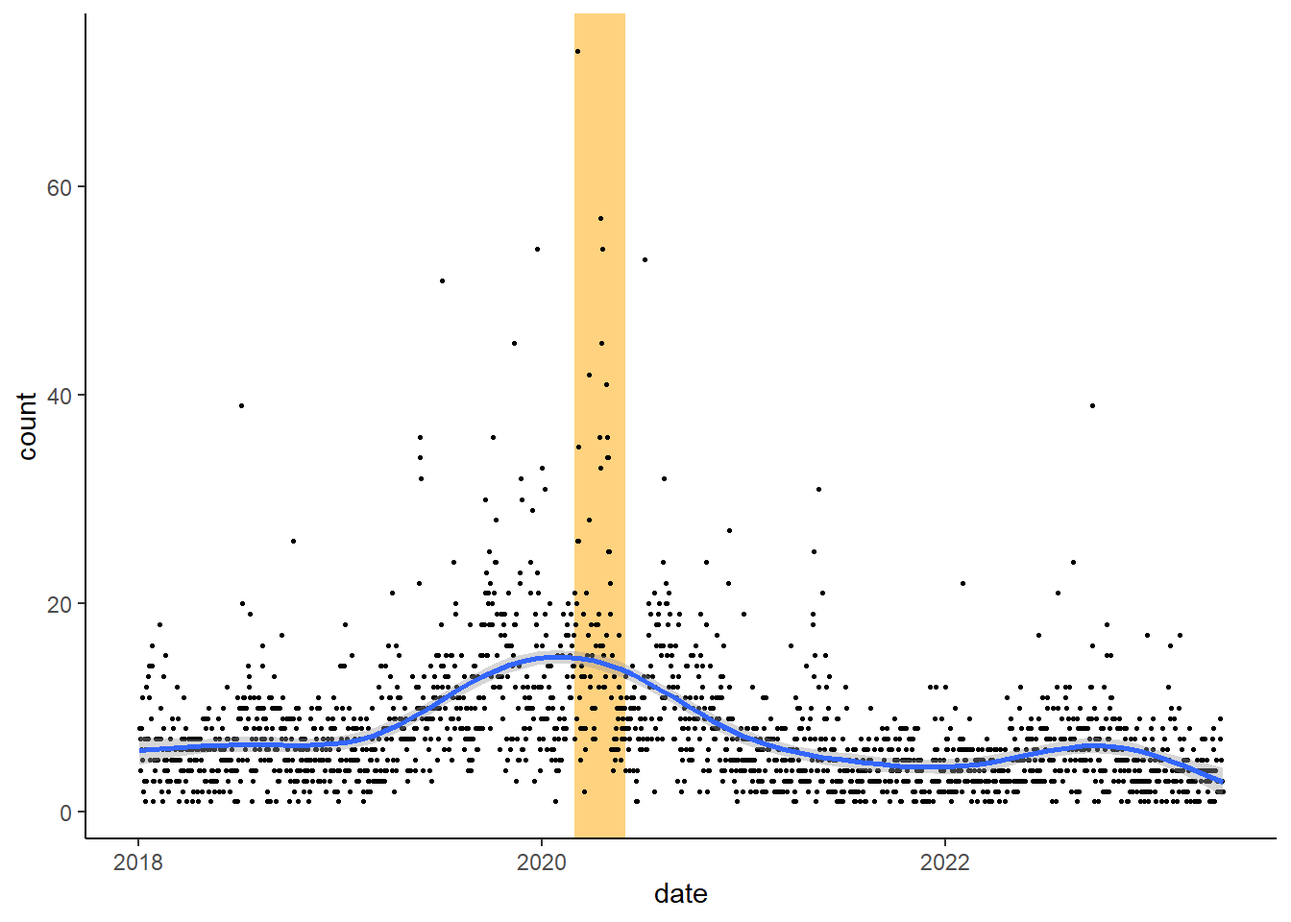
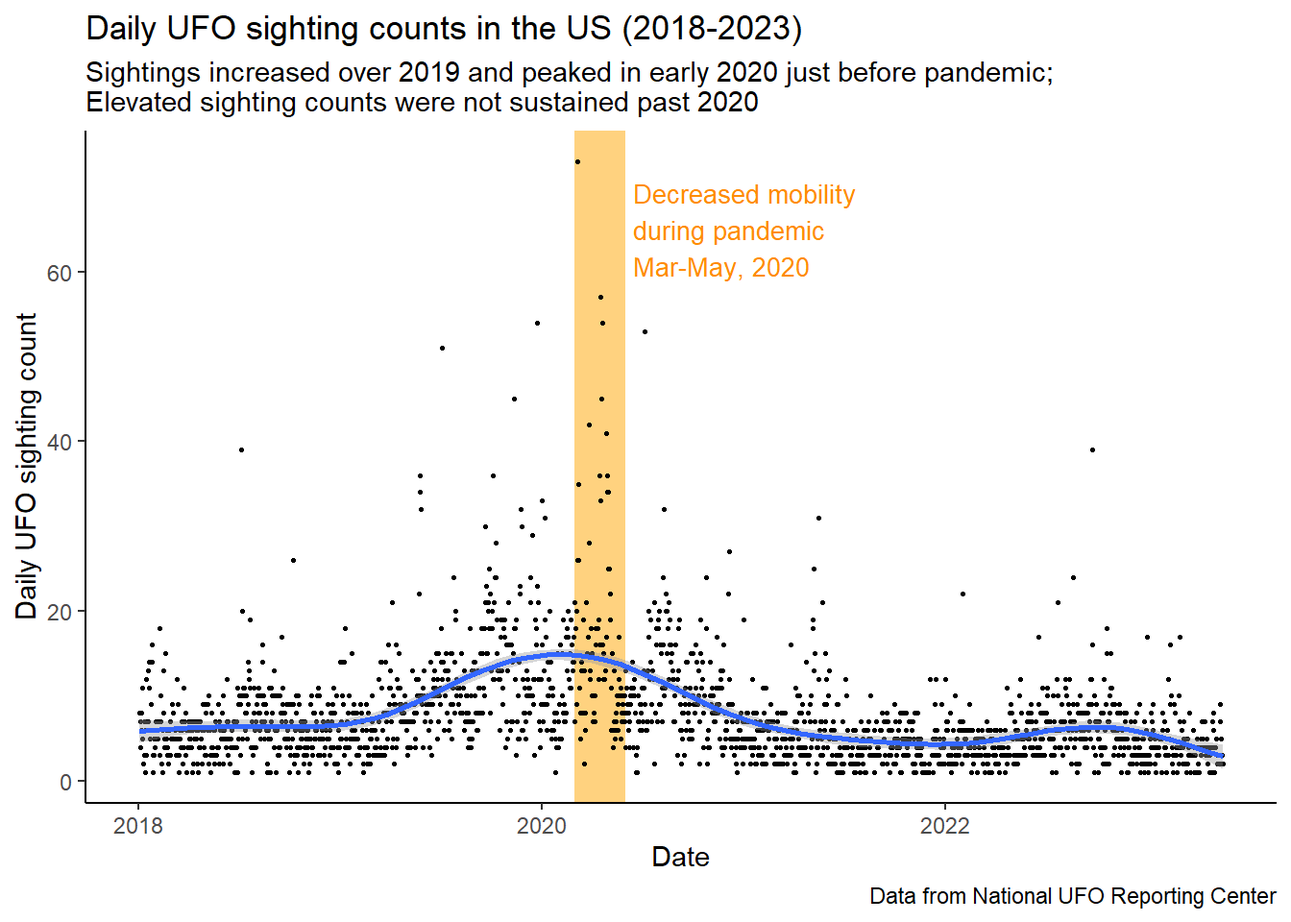
fix date interval for maps, add pandemic annotation to plots

diff --git a/_site/example_analysis.html b/_site/example_analysis.html
@@ -169,6 +169,7 @@ div.csl-indent {
   <li><a href="#data-import-and-cleaning" id="toc-data-import-and-cleaning" class="nav-link" data-scroll-target="#data-import-and-cleaning">Data import and cleaning</a></li>
   <li><a href="#changes-in-sightings-during-pandemic" id="toc-changes-in-sightings-during-pandemic" class="nav-link" data-scroll-target="#changes-in-sightings-during-pandemic">Changes in sightings during pandemic</a></li>
   <li><a href="#geographic-distribution-of-change-in-sightings" id="toc-geographic-distribution-of-change-in-sightings" class="nav-link" data-scroll-target="#geographic-distribution-of-change-in-sightings">Geographic distribution of change in sightings</a></li>
+  <li><a href="#summary" id="toc-summary" class="nav-link" data-scroll-target="#summary">Summary</a></li>
   <li><a href="#functions-used" id="toc-functions-used" class="nav-link" data-scroll-target="#functions-used">Functions used</a></li>
   <li><a href="#references" id="toc-references" class="nav-link" data-scroll-target="#references">References</a></li>
   </ul>
@@ -232,11 +233,11 @@ Note
 <i class="callout-icon"></i>
 </div>
 <div class="callout-title-container flex-fill">
-An important message for the Pentagon
+An important message
 </div>
 </div>
 <div class="callout-body-container callout-body">
-<p>If you (the Pentagon) are reading this <a href="https://thehill.com/policy/defense/4300252-pentagon-ufo-chief-to-step-down-next-month/" class="external" target="_blank">and you are hiring</a>: I am open for work.</p>
+<p>If the Pentagon are reading this and <a href="https://thehill.com/policy/defense/4300252-pentagon-ufo-chief-to-step-down-next-month/" class="external" target="_blank">you are hiring</a>: I am open for work.</p>
 </div>
 </div>
 </section>
@@ -427,9 +428,23 @@ $ elevation_m          &lt;dbl&gt; 160, 192, 199, 235, 17, 382, 89, 11, NA, 1156
 <span id="cb10-11"><a href="#cb10-11" aria-hidden="true" tabindex="-1"></a>             <span class="at">ymax =</span> <span class="cn">Inf</span>,</span>
 <span id="cb10-12"><a href="#cb10-12" aria-hidden="true" tabindex="-1"></a>             <span class="at">fill =</span> <span class="st">"orange"</span>,</span>
 <span id="cb10-13"><a href="#cb10-13" aria-hidden="true" tabindex="-1"></a>             <span class="at">alpha =</span> <span class="fl">0.5</span>) <span class="sc">+</span></span>
-<span id="cb10-14"><a href="#cb10-14" aria-hidden="true" tabindex="-1"></a>    <span class="fu">geom_point</span>(<span class="at">size =</span> <span class="fl">0.5</span>) <span class="sc">+</span></span>
-<span id="cb10-15"><a href="#cb10-15" aria-hidden="true" tabindex="-1"></a>    <span class="fu">geom_smooth</span>() <span class="sc">+</span></span>
-<span id="cb10-16"><a href="#cb10-16" aria-hidden="true" tabindex="-1"></a>    <span class="fu">theme_classic</span>()</span></code><button title="Copy to Clipboard" class="code-copy-button"><i class="bi"></i></button></pre></div>
+<span id="cb10-14"><a href="#cb10-14" aria-hidden="true" tabindex="-1"></a>    <span class="fu">annotate</span>(<span class="st">"text"</span>,</span>
+<span id="cb10-15"><a href="#cb10-15" aria-hidden="true" tabindex="-1"></a>             <span class="at">x =</span> <span class="fu">ymd</span>(<span class="st">"2020-06-15"</span>), </span>
+<span id="cb10-16"><a href="#cb10-16" aria-hidden="true" tabindex="-1"></a>             <span class="at">y =</span> <span class="dv">65</span>,</span>
+<span id="cb10-17"><a href="#cb10-17" aria-hidden="true" tabindex="-1"></a>             <span class="at">hjust =</span> <span class="dv">0</span>,</span>
+<span id="cb10-18"><a href="#cb10-18" aria-hidden="true" tabindex="-1"></a>             <span class="at">label =</span> <span class="st">"Decreased mobility </span><span class="sc">\n</span><span class="st">during pandemic </span><span class="sc">\n</span><span class="st">Mar-May, 2020"</span>,</span>
+<span id="cb10-19"><a href="#cb10-19" aria-hidden="true" tabindex="-1"></a>             <span class="at">color =</span> <span class="st">"darkorange"</span>,</span>
+<span id="cb10-20"><a href="#cb10-20" aria-hidden="true" tabindex="-1"></a>             <span class="at">size =</span> <span class="dv">10</span><span class="sc">/</span>.pt) <span class="sc">+</span></span>
+<span id="cb10-21"><a href="#cb10-21" aria-hidden="true" tabindex="-1"></a>    <span class="fu">geom_point</span>(<span class="at">size =</span> <span class="fl">0.5</span>) <span class="sc">+</span></span>
+<span id="cb10-22"><a href="#cb10-22" aria-hidden="true" tabindex="-1"></a>    <span class="fu">geom_smooth</span>() <span class="sc">+</span></span>
+<span id="cb10-23"><a href="#cb10-23" aria-hidden="true" tabindex="-1"></a>    <span class="fu">theme_classic</span>() <span class="sc">+</span></span>
+<span id="cb10-24"><a href="#cb10-24" aria-hidden="true" tabindex="-1"></a>    <span class="fu">labs</span>(</span>
+<span id="cb10-25"><a href="#cb10-25" aria-hidden="true" tabindex="-1"></a>      <span class="at">title =</span> <span class="st">"Daily UFO sighting counts in the US (2018-2023)"</span>,</span>
+<span id="cb10-26"><a href="#cb10-26" aria-hidden="true" tabindex="-1"></a>      <span class="at">subtitle =</span> <span class="st">"Sightings increased over 2019 and peaked in early 2020 just before pandemic;</span><span class="sc">\n</span><span class="st">Elevated sighting counts were not sustained past 2020"</span>,</span>
+<span id="cb10-27"><a href="#cb10-27" aria-hidden="true" tabindex="-1"></a>      <span class="at">x =</span> <span class="st">"Date"</span>,</span>
+<span id="cb10-28"><a href="#cb10-28" aria-hidden="true" tabindex="-1"></a>      <span class="at">y =</span> <span class="st">"Daily UFO sighting count"</span>,</span>
+<span id="cb10-29"><a href="#cb10-29" aria-hidden="true" tabindex="-1"></a>      <span class="at">caption =</span> <span class="st">"Data from National UFO Reporting Center"</span></span>
+<span id="cb10-30"><a href="#cb10-30" aria-hidden="true" tabindex="-1"></a>    )</span></code><button title="Copy to Clipboard" class="code-copy-button"><i class="bi"></i></button></pre></div>
 </details>
 <div class="cell-output cell-output-stderr">
 <pre><code>`geom_smooth()` using method = 'gam' and formula = 'y ~ s(x, bs = "cs")'</code></pre>
@@ -452,16 +467,26 @@ $ elevation_m          &lt;dbl&gt; 160, 192, 199, 235, 17, 382, 89, 11, NA, 1156
 <span id="cb12-7"><a href="#cb12-7" aria-hidden="true" tabindex="-1"></a>  <span class="fu">summarize</span>(</span>
 <span id="cb12-8"><a href="#cb12-8" aria-hidden="true" tabindex="-1"></a>    <span class="at">count =</span> <span class="fu">n</span>()</span>
 <span id="cb12-9"><a href="#cb12-9" aria-hidden="true" tabindex="-1"></a>  ) <span class="sc">%&gt;%</span> </span>
-<span id="cb12-10"><a href="#cb12-10" aria-hidden="true" tabindex="-1"></a>  <span class="fu">ggplot</span>(<span class="at">mapping =</span> <span class="fu">aes</span>(<span class="at">x =</span> month, <span class="at">y =</span> count)) <span class="sc">+</span></span>
-<span id="cb12-11"><a href="#cb12-11" aria-hidden="true" tabindex="-1"></a>    <span class="fu">annotate</span>(<span class="st">"rect"</span>, </span>
-<span id="cb12-12"><a href="#cb12-12" aria-hidden="true" tabindex="-1"></a>             <span class="at">xmin =</span> <span class="fu">ymd</span>(<span class="st">"2020-03-01"</span>), </span>
-<span id="cb12-13"><a href="#cb12-13" aria-hidden="true" tabindex="-1"></a>             <span class="at">xmax =</span> <span class="fu">ymd</span>(<span class="st">"2020-06-01"</span>), </span>
-<span id="cb12-14"><a href="#cb12-14" aria-hidden="true" tabindex="-1"></a>             <span class="at">ymin =</span> <span class="sc">-</span><span class="cn">Inf</span>, </span>
-<span id="cb12-15"><a href="#cb12-15" aria-hidden="true" tabindex="-1"></a>             <span class="at">ymax =</span> <span class="cn">Inf</span>,</span>
-<span id="cb12-16"><a href="#cb12-16" aria-hidden="true" tabindex="-1"></a>             <span class="at">fill =</span> <span class="st">"orange"</span>,</span>
-<span id="cb12-17"><a href="#cb12-17" aria-hidden="true" tabindex="-1"></a>             <span class="at">alpha =</span> <span class="fl">0.5</span>) <span class="sc">+</span></span>
-<span id="cb12-18"><a href="#cb12-18" aria-hidden="true" tabindex="-1"></a>    <span class="fu">geom_bar</span>(<span class="at">stat =</span> <span class="st">"identity"</span>) <span class="sc">+</span></span>
-<span id="cb12-19"><a href="#cb12-19" aria-hidden="true" tabindex="-1"></a>    <span class="fu">theme_classic</span>()</span></code><button title="Copy to Clipboard" class="code-copy-button"><i class="bi"></i></button></pre></div>
+<span id="cb12-10"><a href="#cb12-10" aria-hidden="true" tabindex="-1"></a>  <span class="fu">mutate</span>(<span class="at">period =</span> <span class="fu">factor</span>(<span class="fu">ifelse</span>(month <span class="sc">%within%</span> <span class="fu">interval</span>(<span class="fu">ymd</span>(<span class="st">"2020-03-01"</span>), <span class="fu">ymd</span>(<span class="st">"2020-06-01"</span>)), <span class="st">"highlight"</span>, <span class="st">"normal"</span>))) <span class="sc">%&gt;%</span> </span>
+<span id="cb12-11"><a href="#cb12-11" aria-hidden="true" tabindex="-1"></a>  <span class="fu">ggplot</span>(<span class="at">mapping =</span> <span class="fu">aes</span>(<span class="at">x =</span> month, <span class="at">y =</span> count, <span class="at">fill =</span> period)) <span class="sc">+</span></span>
+<span id="cb12-12"><a href="#cb12-12" aria-hidden="true" tabindex="-1"></a>    <span class="fu">geom_bar</span>(<span class="at">stat =</span> <span class="st">"identity"</span>) <span class="sc">+</span></span>
+<span id="cb12-13"><a href="#cb12-13" aria-hidden="true" tabindex="-1"></a>    <span class="fu">scale_fill_manual</span>(<span class="at">values =</span> <span class="fu">c</span>(<span class="st">"orange"</span>, <span class="st">"grey50"</span>)) <span class="sc">+</span></span>
+<span id="cb12-14"><a href="#cb12-14" aria-hidden="true" tabindex="-1"></a>    <span class="fu">annotate</span>(<span class="st">"text"</span>,</span>
+<span id="cb12-15"><a href="#cb12-15" aria-hidden="true" tabindex="-1"></a>             <span class="at">x =</span> <span class="fu">ymd</span>(<span class="st">"2020-06-05"</span>), </span>
+<span id="cb12-16"><a href="#cb12-16" aria-hidden="true" tabindex="-1"></a>             <span class="at">y =</span> <span class="dv">600</span>,</span>
+<span id="cb12-17"><a href="#cb12-17" aria-hidden="true" tabindex="-1"></a>             <span class="at">hjust =</span> <span class="dv">0</span>,</span>
+<span id="cb12-18"><a href="#cb12-18" aria-hidden="true" tabindex="-1"></a>             <span class="at">label =</span> <span class="st">"Decreased mobility </span><span class="sc">\n</span><span class="st">during pandemic </span><span class="sc">\n</span><span class="st">Mar-May, 2020"</span>,</span>
+<span id="cb12-19"><a href="#cb12-19" aria-hidden="true" tabindex="-1"></a>             <span class="at">color =</span> <span class="st">"darkorange"</span>,</span>
+<span id="cb12-20"><a href="#cb12-20" aria-hidden="true" tabindex="-1"></a>             <span class="at">size =</span> <span class="dv">10</span><span class="sc">/</span>.pt) <span class="sc">+</span></span>
+<span id="cb12-21"><a href="#cb12-21" aria-hidden="true" tabindex="-1"></a>    <span class="fu">theme_classic</span>() <span class="sc">+</span></span>
+<span id="cb12-22"><a href="#cb12-22" aria-hidden="true" tabindex="-1"></a>    <span class="fu">theme</span>(<span class="at">legend.position =</span> <span class="st">"none"</span>) <span class="sc">+</span></span>
+<span id="cb12-23"><a href="#cb12-23" aria-hidden="true" tabindex="-1"></a>    <span class="fu">labs</span>(</span>
+<span id="cb12-24"><a href="#cb12-24" aria-hidden="true" tabindex="-1"></a>      <span class="at">title =</span> <span class="st">"Monthly UFO sighting counts in the US (2018-2023)"</span>,</span>
+<span id="cb12-25"><a href="#cb12-25" aria-hidden="true" tabindex="-1"></a>      <span class="at">subtitle =</span> <span class="st">"Monthly sightings sharply increased during start of pandemic (Mar/Apr 2020)"</span>,</span>
+<span id="cb12-26"><a href="#cb12-26" aria-hidden="true" tabindex="-1"></a>      <span class="at">x =</span> <span class="st">"Date"</span>,</span>
+<span id="cb12-27"><a href="#cb12-27" aria-hidden="true" tabindex="-1"></a>      <span class="at">y =</span> <span class="st">"Monthly UFO sighting count"</span>,</span>
+<span id="cb12-28"><a href="#cb12-28" aria-hidden="true" tabindex="-1"></a>      <span class="at">caption =</span> <span class="st">"Data from National UFO Reporting Center"</span></span>
+<span id="cb12-29"><a href="#cb12-29" aria-hidden="true" tabindex="-1"></a>    )</span></code><button title="Copy to Clipboard" class="code-copy-button"><i class="bi"></i></button></pre></div>
 </details>
 <div class="cell-output-display">
 <p><img src="example_analysis_files/figure-html/unnamed-chunk-7-1.png" class="img-fluid" width="672"></p>
@@ -477,7 +502,7 @@ $ elevation_m          &lt;dbl&gt; 160, 192, 199, 235, 17, 382, 89, 11, NA, 1156
 <details>
 <summary>Code</summary>
 <div class="sourceCode cell-code" id="cb13"><pre class="sourceCode r code-with-copy"><code class="sourceCode r"><span id="cb13-1"><a href="#cb13-1" aria-hidden="true" tabindex="-1"></a>pandemic_sightings<span class="ot">&lt;-</span> ufo_sightings <span class="sc">%&gt;%</span> </span>
-<span id="cb13-2"><a href="#cb13-2" aria-hidden="true" tabindex="-1"></a>  <span class="fu">filter</span>(date <span class="sc">%within%</span> <span class="fu">interval</span>(<span class="fu">ymd</span>(<span class="st">"2020-01-01"</span>), <span class="fu">ymd</span>(<span class="st">"2020-06-01"</span>))) <span class="sc">%&gt;%</span> </span>
+<span id="cb13-2"><a href="#cb13-2" aria-hidden="true" tabindex="-1"></a>  <span class="fu">filter</span>(date <span class="sc">%within%</span> <span class="fu">interval</span>(<span class="fu">ymd</span>(<span class="st">"2020-01-01"</span>), <span class="fu">ymd</span>(<span class="st">"2020-04-30"</span>))) <span class="sc">%&gt;%</span> </span>
 <span id="cb13-3"><a href="#cb13-3" aria-hidden="true" tabindex="-1"></a>  <span class="fu">mutate</span>(</span>
 <span id="cb13-4"><a href="#cb13-4" aria-hidden="true" tabindex="-1"></a>    <span class="at">time_period =</span> <span class="fu">case_when</span>(date <span class="sc">&lt;</span> <span class="st">"2020-03-01"</span> <span class="sc">~</span> <span class="st">"before"</span>, <span class="at">.default =</span> <span class="st">"after"</span>) <span class="sc">%&gt;%</span> </span>
 <span id="cb13-5"><a href="#cb13-5" aria-hidden="true" tabindex="-1"></a>                  <span class="fu">factor</span>(<span class="at">levels =</span> <span class="fu">c</span>(<span class="st">"before"</span>, <span class="st">"after"</span>))</span>
@@ -487,7 +512,8 @@ $ elevation_m          &lt;dbl&gt; 160, 192, 199, 235, 17, 382, 89, 11, NA, 1156
 <div class="cell">
 <details>
 <summary>Code</summary>
-<div class="sourceCode cell-code" id="cb14"><pre class="sourceCode r code-with-copy"><code class="sourceCode r"><span id="cb14-1"><a href="#cb14-1" aria-hidden="true" tabindex="-1"></a>transformed_sightings <span class="ot">&lt;-</span> <span class="fu">usmap_transform</span>(pandemic_sightings, <span class="at">input_names =</span> <span class="fu">c</span>(<span class="st">"longitude"</span>, <span class="st">"latitude"</span>))</span></code><button title="Copy to Clipboard" class="code-copy-button"><i class="bi"></i></button></pre></div>
+<div class="sourceCode cell-code" id="cb14"><pre class="sourceCode r code-with-copy"><code class="sourceCode r"><span id="cb14-1"><a href="#cb14-1" aria-hidden="true" tabindex="-1"></a>transformed_sightings <span class="ot">&lt;-</span> <span class="fu">usmap_transform</span>(pandemic_sightings, <span class="at">input_names =</span> <span class="fu">c</span>(<span class="st">"longitude"</span>, <span class="st">"latitude"</span>)) <span class="sc">%&gt;%</span> </span>
+<span id="cb14-2"><a href="#cb14-2" aria-hidden="true" tabindex="-1"></a>  <span class="fu">mutate</span>(<span class="at">time_period =</span> <span class="fu">fct_recode</span>(time_period, <span class="st">`</span><span class="at">Jan-Feb 2020</span><span class="st">`</span> <span class="ot">=</span> <span class="st">"before"</span>, <span class="st">`</span><span class="at">Mar-Apr 2020</span><span class="st">`</span> <span class="ot">=</span> <span class="st">"after"</span>))</span></code><button title="Copy to Clipboard" class="code-copy-button"><i class="bi"></i></button></pre></div>
 </details>
 <div class="cell-output cell-output-stderr">
 <pre><code>Warning: Evolution status fixed to 2L
@@ -503,11 +529,18 @@ Warning: Evolution status fixed to 2L</code></pre>
 <div class="sourceCode cell-code" id="cb16"><pre class="sourceCode r code-with-copy"><code class="sourceCode r"><span id="cb16-1"><a href="#cb16-1" aria-hidden="true" tabindex="-1"></a><span class="fu">plot_usmap</span>() <span class="sc">+</span></span>
 <span id="cb16-2"><a href="#cb16-2" aria-hidden="true" tabindex="-1"></a>  <span class="fu">geom_point</span>(transformed_sightings, <span class="at">mapping =</span> <span class="fu">aes</span>(x, y, <span class="at">color =</span> time_period), <span class="at">size =</span> <span class="fl">0.5</span>) <span class="sc">+</span></span>
 <span id="cb16-3"><a href="#cb16-3" aria-hidden="true" tabindex="-1"></a>  <span class="fu">facet_wrap</span>(<span class="sc">~</span>time_period) <span class="sc">+</span></span>
-<span id="cb16-4"><a href="#cb16-4" aria-hidden="true" tabindex="-1"></a>  <span class="fu">theme_void</span>() <span class="sc">+</span></span>
-<span id="cb16-5"><a href="#cb16-5" aria-hidden="true" tabindex="-1"></a>  <span class="fu">theme</span>(<span class="at">legend.position =</span> <span class="st">"none"</span>) <span class="sc">+</span></span>
-<span id="cb16-6"><a href="#cb16-6" aria-hidden="true" tabindex="-1"></a>  <span class="fu">labs</span>(</span>
-<span id="cb16-7"><a href="#cb16-7" aria-hidden="true" tabindex="-1"></a>    </span>
-<span id="cb16-8"><a href="#cb16-8" aria-hidden="true" tabindex="-1"></a>  )</span></code><button title="Copy to Clipboard" class="code-copy-button"><i class="bi"></i></button></pre></div>
+<span id="cb16-4"><a href="#cb16-4" aria-hidden="true" tabindex="-1"></a>  <span class="fu">theme_minimal</span>() <span class="sc">+</span></span>
+<span id="cb16-5"><a href="#cb16-5" aria-hidden="true" tabindex="-1"></a>  <span class="fu">theme</span>(</span>
+<span id="cb16-6"><a href="#cb16-6" aria-hidden="true" tabindex="-1"></a>    <span class="at">legend.position =</span> <span class="st">"none"</span>,</span>
+<span id="cb16-7"><a href="#cb16-7" aria-hidden="true" tabindex="-1"></a>    <span class="at">axis.line =</span> <span class="fu">element_blank</span>(),</span>
+<span id="cb16-8"><a href="#cb16-8" aria-hidden="true" tabindex="-1"></a>    <span class="at">axis.title =</span> <span class="fu">element_blank</span>(),</span>
+<span id="cb16-9"><a href="#cb16-9" aria-hidden="true" tabindex="-1"></a>    <span class="at">axis.text =</span> <span class="fu">element_blank</span>(),</span>
+<span id="cb16-10"><a href="#cb16-10" aria-hidden="true" tabindex="-1"></a>    <span class="at">panel.grid =</span> <span class="fu">element_blank</span>()) <span class="sc">+</span></span>
+<span id="cb16-11"><a href="#cb16-11" aria-hidden="true" tabindex="-1"></a>  <span class="fu">labs</span>(</span>
+<span id="cb16-12"><a href="#cb16-12" aria-hidden="true" tabindex="-1"></a>    <span class="at">title =</span> <span class="st">"UFO sightings before and during pandemic stay-at-home orders in US"</span>,</span>
+<span id="cb16-13"><a href="#cb16-13" aria-hidden="true" tabindex="-1"></a>    <span class="at">subtitle =</span> <span class="st">"The West Coast and Midwest experienced the greatest increase in UFO sightings"</span>,</span>
+<span id="cb16-14"><a href="#cb16-14" aria-hidden="true" tabindex="-1"></a>    <span class="at">caption =</span> <span class="st">"Data from National UFO Reporting Center"</span></span>
+<span id="cb16-15"><a href="#cb16-15" aria-hidden="true" tabindex="-1"></a>  )</span></code><button title="Copy to Clipboard" class="code-copy-button"><i class="bi"></i></button></pre></div>
 </details>
 <div class="cell-output-display">
 <p><img src="example_analysis_files/figure-html/unnamed-chunk-9-1.png" class="img-fluid" width="960"></p>
@@ -532,31 +565,52 @@ Warning: Evolution status fixed to 2L</code></pre>
 <div>
 <details>
 <summary>Code</summary>
-<div class="sourceCode cell-code" id="cb18"><pre class="sourceCode r code-with-copy"><code class="sourceCode r"><span id="cb18-1"><a href="#cb18-1" aria-hidden="true" tabindex="-1"></a>abs_scale <span class="ot">&lt;-</span> <span class="fu">getJenksBreaks</span>(diff_sightings<span class="sc">$</span>abs_diff, <span class="dv">7</span>) <span class="sc">%&gt;%</span> <span class="fu">rescale</span>(<span class="at">to =</span> <span class="fu">c</span>(<span class="dv">0</span>,<span class="dv">1</span>))</span>
-<span id="cb18-2"><a href="#cb18-2" aria-hidden="true" tabindex="-1"></a>perc_scale <span class="ot">&lt;-</span> <span class="fu">getJenksBreaks</span>(diff_sightings<span class="sc">$</span>perc_diff, <span class="dv">7</span>) <span class="sc">%&gt;%</span> <span class="fu">rescale</span>(<span class="at">to =</span> <span class="fu">c</span>(<span class="dv">0</span>,<span class="dv">1</span>))</span>
-<span id="cb18-3"><a href="#cb18-3" aria-hidden="true" tabindex="-1"></a></span>
-<span id="cb18-4"><a href="#cb18-4" aria-hidden="true" tabindex="-1"></a><span class="fu">plot_usmap</span>(<span class="at">data =</span> diff_sightings, <span class="at">values =</span> <span class="st">"abs_diff"</span>) <span class="sc">+</span></span>
-<span id="cb18-5"><a href="#cb18-5" aria-hidden="true" tabindex="-1"></a>  <span class="fu">scale_fill_distiller</span>(<span class="at">palette =</span> <span class="st">"BrBG"</span>, <span class="at">direction =</span> <span class="dv">1</span>, <span class="at">values =</span> abs_scale) <span class="sc">+</span></span>
-<span id="cb18-6"><a href="#cb18-6" aria-hidden="true" tabindex="-1"></a>  <span class="fu">labs</span>(</span>
-<span id="cb18-7"><a href="#cb18-7" aria-hidden="true" tabindex="-1"></a>    <span class="at">fill =</span> <span class="st">"Change in </span><span class="sc">\n</span><span class="st">sightings"</span></span>
-<span id="cb18-8"><a href="#cb18-8" aria-hidden="true" tabindex="-1"></a>  )</span>
-<span id="cb18-9"><a href="#cb18-9" aria-hidden="true" tabindex="-1"></a><span class="fu">plot_usmap</span>(<span class="at">data =</span> diff_sightings, <span class="at">values =</span> <span class="st">"perc_diff"</span>) <span class="sc">+</span></span>
-<span id="cb18-10"><a href="#cb18-10" aria-hidden="true" tabindex="-1"></a>  <span class="fu">scale_fill_distiller</span>(<span class="at">palette =</span> <span class="st">"PiYG"</span>, <span class="at">direction =</span> <span class="dv">1</span>, <span class="at">values =</span> perc_scale, <span class="at">labels =</span> scales<span class="sc">::</span><span class="fu">label_percent</span>()) <span class="sc">+</span></span>
-<span id="cb18-11"><a href="#cb18-11" aria-hidden="true" tabindex="-1"></a>  <span class="fu">labs</span>(</span>
-<span id="cb18-12"><a href="#cb18-12" aria-hidden="true" tabindex="-1"></a>    <span class="at">fill =</span> <span class="st">"% change </span><span class="sc">\n</span><span class="st">in sightings"</span></span>
-<span id="cb18-13"><a href="#cb18-13" aria-hidden="true" tabindex="-1"></a>  )</span></code><button title="Copy to Clipboard" class="code-copy-button"><i class="bi"></i></button></pre></div>
+<div class="sourceCode cell-code" id="cb18"><pre class="sourceCode r code-with-copy"><code class="sourceCode r"><span id="cb18-1"><a href="#cb18-1" aria-hidden="true" tabindex="-1"></a><span class="co"># Using Jenks natural breaks to change color scale</span></span>
+<span id="cb18-2"><a href="#cb18-2" aria-hidden="true" tabindex="-1"></a><span class="co"># I feel this makes the scale more readable, especially since </span></span>
+<span id="cb18-3"><a href="#cb18-3" aria-hidden="true" tabindex="-1"></a>abs_scale <span class="ot">&lt;-</span> <span class="fu">getJenksBreaks</span>(diff_sightings<span class="sc">$</span>abs_diff, <span class="dv">7</span>) <span class="sc">%&gt;%</span> <span class="fu">rescale</span>(<span class="at">to =</span> <span class="fu">c</span>(<span class="dv">0</span>,<span class="dv">1</span>))</span>
+<span id="cb18-4"><a href="#cb18-4" aria-hidden="true" tabindex="-1"></a>perc_scale <span class="ot">&lt;-</span> <span class="fu">getJenksBreaks</span>(diff_sightings<span class="sc">$</span>perc_diff, <span class="dv">7</span>) <span class="sc">%&gt;%</span> <span class="fu">rescale</span>(<span class="at">to =</span> <span class="fu">c</span>(<span class="dv">0</span>,<span class="dv">1</span>))</span>
+<span id="cb18-5"><a href="#cb18-5" aria-hidden="true" tabindex="-1"></a></span>
+<span id="cb18-6"><a href="#cb18-6" aria-hidden="true" tabindex="-1"></a><span class="fu">plot_usmap</span>(<span class="at">data =</span> diff_sightings, <span class="at">values =</span> <span class="st">"abs_diff"</span>) <span class="sc">+</span></span>
+<span id="cb18-7"><a href="#cb18-7" aria-hidden="true" tabindex="-1"></a>  <span class="fu">scale_fill_distiller</span>(<span class="at">palette =</span> <span class="st">"BrBG"</span>, <span class="at">direction =</span> <span class="dv">1</span>, <span class="at">values =</span> abs_scale) <span class="sc">+</span></span>
+<span id="cb18-8"><a href="#cb18-8" aria-hidden="true" tabindex="-1"></a>  <span class="fu">labs</span>(</span>
+<span id="cb18-9"><a href="#cb18-9" aria-hidden="true" tabindex="-1"></a>    <span class="at">fill =</span> <span class="st">"Change in </span><span class="sc">\n</span><span class="st">sightings"</span></span>
+<span id="cb18-10"><a href="#cb18-10" aria-hidden="true" tabindex="-1"></a>  )</span>
+<span id="cb18-11"><a href="#cb18-11" aria-hidden="true" tabindex="-1"></a></span>
+<span id="cb18-12"><a href="#cb18-12" aria-hidden="true" tabindex="-1"></a><span class="fu">plot_usmap</span>(<span class="at">data =</span> diff_sightings, <span class="at">values =</span> <span class="st">"perc_diff"</span>) <span class="sc">+</span></span>
+<span id="cb18-13"><a href="#cb18-13" aria-hidden="true" tabindex="-1"></a>  <span class="fu">scale_fill_distiller</span>(<span class="at">palette =</span> <span class="st">"PiYG"</span>, <span class="at">direction =</span> <span class="dv">1</span>, <span class="at">values =</span> perc_scale, <span class="at">labels =</span> scales<span class="sc">::</span><span class="fu">label_percent</span>()) <span class="sc">+</span></span>
+<span id="cb18-14"><a href="#cb18-14" aria-hidden="true" tabindex="-1"></a>  <span class="fu">labs</span>(</span>
+<span id="cb18-15"><a href="#cb18-15" aria-hidden="true" tabindex="-1"></a>    <span class="at">fill =</span> <span class="st">"% change </span><span class="sc">\n</span><span class="st">in sightings"</span></span>
+<span id="cb18-16"><a href="#cb18-16" aria-hidden="true" tabindex="-1"></a>  )</span></code><button title="Copy to Clipboard" class="code-copy-button"><i class="bi"></i></button></pre></div>
 </details>
 <div class="cell quarto-layout-panel">
 <div class="quarto-layout-row quarto-layout-valign-top">
 <div class="cell-output-display quarto-layout-cell" style="flex-basis: 50.0%;justify-content: center;">
-<p><img src="example_analysis_files/figure-html/unnamed-chunk-11-1.png" class="img-fluid" width="672"></p>
+<div class="quarto-figure quarto-figure-center">
+<figure class="figure">
+<p><img src="example_analysis_files/figure-html/unnamed-chunk-11-1.png" class="img-fluid figure-img" width="672"></p>
+<figcaption class="figure-caption">Absolute change</figcaption>
+</figure>
+</div>
 </div>
 <div class="cell-output-display quarto-layout-cell" style="flex-basis: 50.0%;justify-content: center;">
-<p><img src="example_analysis_files/figure-html/unnamed-chunk-11-2.png" class="img-fluid" width="672"></p>
+<div class="quarto-figure quarto-figure-center">
+<figure class="figure">
+<p><img src="example_analysis_files/figure-html/unnamed-chunk-11-2.png" class="img-fluid figure-img" width="672"></p>
+<figcaption class="figure-caption">Percent change</figcaption>
+</figure>
+</div>
+</div>
+</div>
+<div class="quarto-layout-row quarto-layout-valign-top">
+<div class="quarto-layout-cell" style="flex-basis: 50.0%;justify-content: center;">
+<p>Change in UFO sightings before vs.&nbsp;during pandemic by US state</p>
 </div>
 </div>
 </div>
 </div>
+</section>
+<section id="summary" class="level2">
+<h2 class="anchored" data-anchor-id="summary">Summary</h2>
 </section>
 <section id="functions-used" class="level2">
 <h2 class="anchored" data-anchor-id="functions-used">Functions used</h2>
